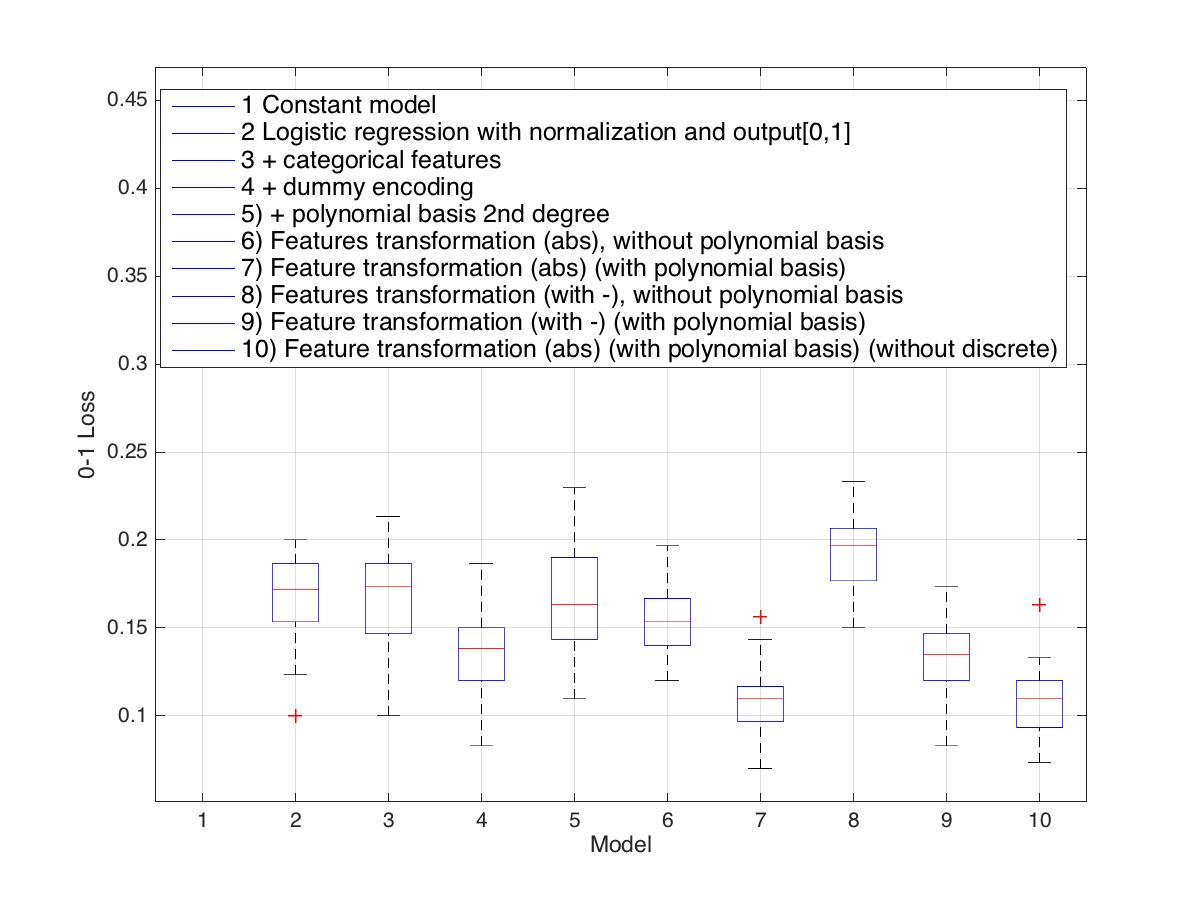
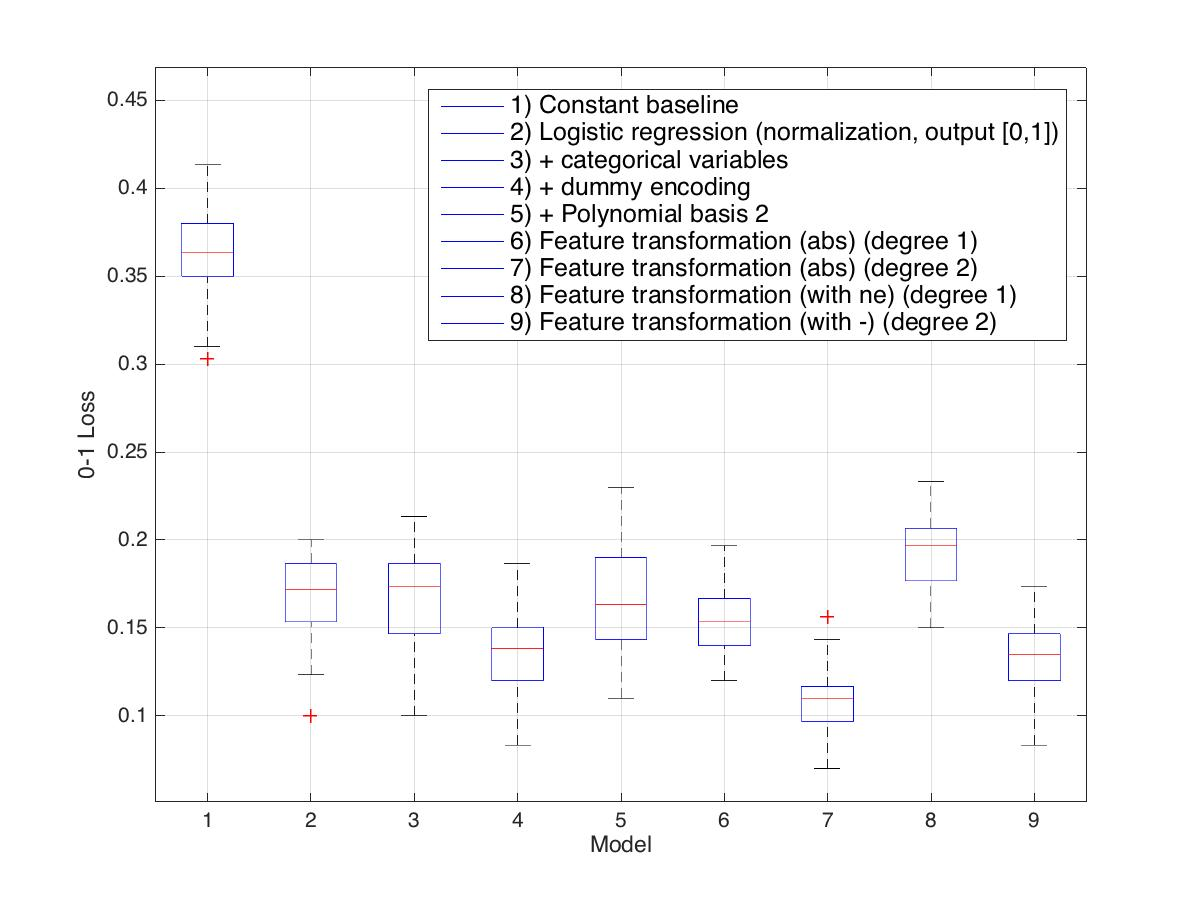
Update graphics

diff --git a/classification/main.m b/classification/main.m
@@ -11,17 +11,14 @@ X = X_train;
 N = length(y);
 
 % 1) Constant baseline
-% 2) Logistic regression (with normalization + output [0,1] + keaping only real features)
+% 2) Logistic regression (normalization & output [0,1] & only real features)
 % 3) + categorical variables
 % 4) + dummy encoding
 % 5) + Polynomial basis 2
-% 6) Feature transformation (abs) (without polynomial basis)
-% 7) Feature transformation (abs) (with polynomial basis 2)
-% 8) Feature transformation (with -) (without polynomial basis)
-% 9) Feature transformation (with -) (with polynomial basis 2)
-
-% 6) + Polynomial basis degree 3
-% 5) + Removing outliers
+% 6) Feature transformation (abs) (degree 1)
+% 7) Feature transformation (abs) (degree 2)
+% 8) Feature transformation (with neg) (degree 1)
+% 9) Feature transformation (with neg) (degree 2)
 
 numberOfExperiments = 30;
 proportionOfTraining = 0.8;
@@ -384,9 +381,9 @@ for i = 1:1:numberOfExperiments
     err7_log(i) = logLoss(yTe, y_hat);
 end
 
-saveFile(err7, 'results/err7');
-saveFile(err7_01, 'results/err7_01');
-saveFile(err7_log, 'results/err7_log');
+%saveFile(err7, 'results/err7');
+%saveFile(err7_01, 'results/err7_01');
+%saveFile(err7_log, 'results/err7_log');
 
 %%
 % **********************************
@@ -505,65 +502,6 @@ saveFile(err9_01, 'results/err9_01');
 saveFile(err9_log, 'results/err9_log');
 
 %%
-% **********************************
-%             TEST 10
-% **********************************
-% We MUST normalize and transform -1 to 0 in order to have GD working
-% Add categorical features from preprocess
-% Add dummy encoding
-% Add polynomial basis
-
-%a = 0.001, d = 2 -> 90.53 (Without discrete variable and using abs)
-alphas = [0.001];
-degree = 2;
-for i = 1:1:numberOfExperiments
-    setSeed(28111993*i);
-    [XTr, yTr, XTe, yTe] = splitProp(proportionOfTraining, y, X);
-     
-    [yTr, XTr] = preprocess(yTr, XTr, degree);
-    N = length(yTr);
-    idxCV = splitGetCV(K, N);
-    
-%      for a = 1:1:length(alphas)
-%          % K-fold
-%          for k=1:1:K
-%              [XXTr, yyTr, XXTe, yyTe] = splitGetTrTe(yTr, XTr, idxCV, k);
-%              
-%              tXTr = [ones(length(yyTr),1) XXTr];
-%              tXTe = [ones(length(yyTe),1) XXTe];
-%              
-%              alpha = alphas(a);
-%              beta = logisticRegression(yyTr, tXTr, alpha);
-%              
-%              err_tr_rr(k,a) = RMSE(yyTr, tXTr*beta);
-%              err_te_rr(k,a) = RMSE(yyTe, tXTe*beta);
-%          end
-%  
-%          mseTr = mean(err_tr_rr);
-%          mseTe = mean(err_te_rr);
-%      end
-    
-    beta = logisticRegression(yTr, [ones(length(yTr), 1) XTr], alphas(1));
-    %[errStar, alphaStarId] = min(mseTe);
-    %alphaStar = alphas(alphaStarId);
-    
-    [yTe, XTe] = preprocess(yTe, XTe, degree);
-    
-    tXTe = [ones(length(yTe),1) XTe];
-    
-    %beta = logisticRegression(yTe, tXTe, alphaStar);
-    y_hat = (sigmoid(tXTe*beta) >= 0.5).*1.0;
-    
-    err10(i) = RMSE(yTe, y_hat);
-    err10_01(i) = zeroOneLoss(yTe, y_hat);
-    err10_log(i) = logLoss(yTe, y_hat);
-end
-
-saveFile(err10, 'results/err10');
-saveFile(err10_01, 'results/err10_01');
-saveFile(err10_log, 'results/err10_log');
-
-%%
 s = [1 numberOfExperiments];
 
 err1 = openFile('results/err1', s);
@@ -602,36 +540,30 @@ err9 = openFile('results/err9', s);
 err9_01 = openFile('results/err9_01', s);
 err9_log = openFile('results/err9_log', s);
 
-err10 = openFile('results/err10', s);
-err10_01 = openFile('results/err10_01', s);
-err10_log = openFile('results/err10_log', s);
 
 % 1) Constant baseline
-% 2) Logistic regression (with normalization + output [0,1])
+% 2) Logistic regression (normalization & output [0,1] & only real features)
 % 3) + categorical variables
 % 4) + dummy encoding
-% 5) + polynomial basis 2nd degree
-% 6) Feature transformation (abs) (without polynomial basis)
-% 7) Feature transformation (abs) (with polynomial basis)
-% 8) Feature transformation (with -) (without polynomial basis)
-% 9) Feature transformation (with -) (with polynomial basis)
-% 10) Feature transformation (abs) (with polynomial basis) (without
-% discrete)
+% 5) + Polynomial basis 2
+% 6) Feature transformation (abs) (degree 1)
+% 7) Feature transformation (abs) (degree 2)
+% 8) Feature transformation (with neg) (degree 1)
+% 9) Feature transformation (with neg) (degree 2)
 
 % RMSE
 figure;
-boxplot([err1' err2' err3' err4' err5' err6' err7' err8' err9' err10']);
+boxplot([err1' err2' err3' err4' err5' err6' err7' err8' err9']);
 h_legend = legend(findobj(gca,'Tag','Box'), ...
-'1 Constant model', ...
-'2 Logistic regression with normalization and output[0,1]', ...
-'3 + categorical features', ...
-'4 + dummy encoding', ...
-'5) + polynomial basis 2nd degree', ...
-'6) Features transformation (abs), without polynomial basis', ...
-'7) Feature transformation (abs) (with polynomial basis)', ...
-'8) Features transformation (with -), without polynomial basis', ...
-'9) Feature transformation (with -) (with polynomial basis)', ...
-'10) Feature transformation (abs) (with polynomial basis) (without discrete)');
+'1) Constant baseline', ...
+'2) Logistic regression (normalization, output [0,1])', ...
+'3) + categorical variables', ...
+'4) + dummy encoding', ...
+'5) + Polynomial basis 2', ...
+'6) Feature transformation (abs) (degree 1)', ...
+'7) Feature transformation (abs) (degree 2)', ...
+'8) Feature transformation (with neg) (degree 1)', ...
+'9) Feature transformation (with neg) (degree 2)');
 set(h_legend,'FontSize',12);
 set(gca, 'XGrid','on')
 set(gca, 'YGrid','on')
@@ -643,18 +575,17 @@ ylabel('RMSE');
 
 %0-1Loss
 figure;
-boxplot([err1_01' err2_01' err3_01' err4_01' err5_01' err6_01' err7_01' err8_01' err9_01' err10_01']);
+boxplot([err1_01' err2_01' err3_01' err4_01' err5_01' err6_01' err7_01' err8_01' err9_01']);
 h_legend = legend(findobj(gca,'Tag','Box'), ...
-'1 Constant model', ...
-'2 Logistic regression with normalization and output[0,1]', ...
-'3 + categorical features', ...
-'4 + dummy encoding', ...
-'5) + polynomial basis 2nd degree', ...
-'6) Features transformation (abs), without polynomial basis', ...
-'7) Feature transformation (abs) (with polynomial basis)', ...
-'8) Features transformation (with -), without polynomial basis', ...
-'9) Feature transformation (with -) (with polynomial basis)', ...
-'10) Feature transformation (abs) (with polynomial basis) (without discrete)');
+'1) Constant baseline', ...
+'2) Logistic regression (normalization, output [0,1])', ...
+'3) + categorical variables', ...
+'4) + dummy encoding', ...
+'5) + Polynomial basis 2', ...
+'6) Feature transformation (abs) (degree 1)', ...
+'7) Feature transformation (abs) (degree 2)', ...
+'8) Feature transformation (with neg) (degree 1)', ...
+'9) Feature transformation (with neg) (degree 2)');
 set(h_legend,'FontSize',12);
 set(gca, 'XGrid','on')
 set(gca, 'YGrid','on')
@@ -666,18 +597,17 @@ print('../report/figures/models_classification','-djpeg','-noui')
 
 %LogLoss
 figure;
-boxplot([err1_log' err2_log' err3_log' err4_log' err5_log' err6_log' err7_log' err8_log' err9_log' err10_log']);
+boxplot([err1_log' err2_log' err3_log' err4_log' err5_log' err6_log' err7_log' err8_log' err9_log']);
 h_legend = legend(findobj(gca,'Tag','Box'), ...
-'1 Constant model', ...
-'2 Logistic regression with normalization and output[0,1]', ...
-'3 + categorical features', ...
-'4 + dummy encoding', ...
-'5) + polynomial basis 2nd degree', ...
-'6) Features transformation (abs), without polynomial basis', ...
-'7) Feature transformation (abs) (with polynomial basis)', ...
-'8) Features transformation (with -), without polynomial basis', ...
-'9) Feature transformation (with -) (with polynomial basis)', ...
-'10) Feature transformation (abs) (with polynomial basis) (without discrete)');
+'1) Constant baseline', ...
+'2) Logistic regression (normalization, output [0,1])', ...
+'3) + categorical variables', ...
+'4) + dummy encoding', ...
+'5) + Polynomial basis 2', ...
+'6) Feature transformation (abs) (degree 1)', ...
+'7) Feature transformation (abs) (degree 2)', ...
+'8) Feature transformation (with neg) (degree 1)', ...
+'9) Feature transformation (with neg) (degree 2)');
 set(h_legend,'FontSize',12);
 set(gca, 'XGrid','on')
 set(gca, 'YGrid','on')
